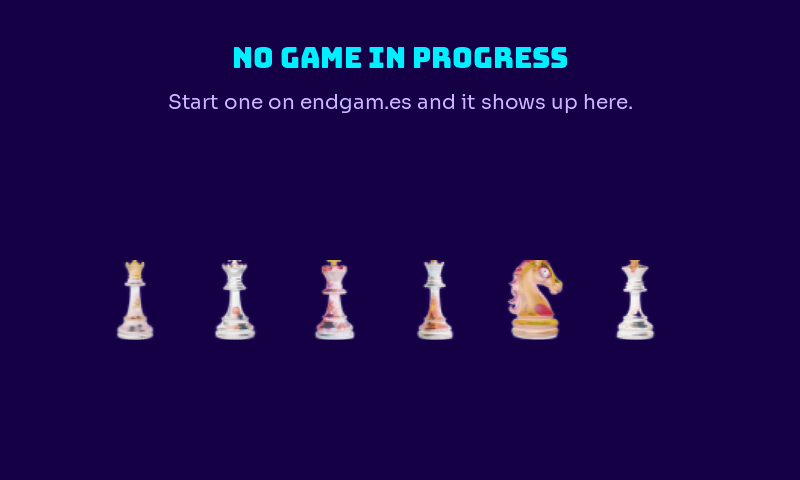
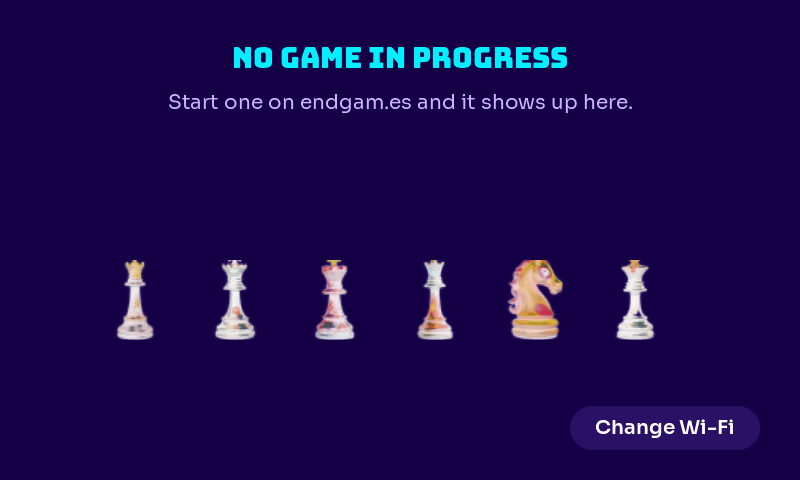
firmware 0.8.1: network dropdown, active-field highlight, Change Wi-Fi on pairing/idle, Back on Wi-Fi screen, idle after pairing

Changed region(s): [[0.6875, 0.8438, 0.9688, 0.9375]]

diff --git a/firmware/main/ui_screens.c b/firmware/main/ui_screens.c
@@ -163,29 +163,66 @@ static kbd_t *kbd_create(lv_obj_t *parent, void (*on_enter)(void *, lv_obj_t *),
 /* ---------- Wi-Fi ---------- */
 
 typedef struct {
-    lv_obj_t *ssid, *pass, *err, *list, *show_lbl;
+    lv_obj_t *dd, *name, *pass, *err, *show_lbl;
     kbd_t *k;
     eg_wifi_cb_t cb;
     void (*rescan)(void);
+    bool have_list;          /* dropdown holds real networks (not "Searching...") */
 } wifi_t;
 
-static void focus_cb(lv_event_t *e)
+#define OTHER_NET "Other network..."
+
+/* The field you're typing in gets a thick pink border and the blinking cursor; the other goes quiet. */
+static void set_target(wifi_t *w, lv_obj_t *ta)
 {
-    wifi_t *w = lv_event_get_user_data(e);
-    lv_keyboard_set_textarea(w->k->kb, lv_event_get_target(e));
+    lv_obj_t *fields[] = {w->name, w->pass};
+    for (int i = 0; i < 2; i++) {
+        bool on = fields[i] == ta;
+        lv_obj_set_style_border_color(fields[i], on ? EG_PINK : EG_FG_MIST, 0);
+        lv_obj_set_style_border_width(fields[i], on ? 4 : 2, 0);
+        lv_obj_set_style_bg_color(fields[i], on ? lv_color_hex(0x3A1A85) : EG_SURFACE, 0);
+        if (on) lv_obj_add_state(fields[i], LV_STATE_FOCUSED);
+        else lv_obj_remove_state(fields[i], LV_STATE_FOCUSED);
+    }
+    lv_keyboard_set_textarea(w->k->kb, ta);
+}
+
+static void field_click_cb(lv_event_t *e)
+{
+    set_target(lv_event_get_user_data(e), lv_event_get_target(e));
+}
+
+static bool other_selected(wifi_t *w)
+{
+    char buf[40];
+    lv_dropdown_get_selected_str(w->dd, buf, sizeof buf);
+    return strcmp(buf, OTHER_NET) == 0;
+}
+
+static void current_ssid(wifi_t *w, char out[33])
+{
+    out[0] = 0;
+    if (other_selected(w)) {
+        strncpy(out, lv_textarea_get_text(w->name), 32);
+    } else if (w->have_list) {
+        lv_dropdown_get_selected_str(w->dd, out, 33);
+    }
+    out[32] = 0;
 }
 
 static void do_connect(wifi_t *w)
 {
-    if (!lv_textarea_get_text(w->ssid)[0]) { lv_label_set_text(w->err, "Pick a network first."); return; }
+    char ssid[33];
+    current_ssid(w, ssid);
+    if (!ssid[0]) { lv_label_set_text(w->err, other_selected(w) ? "Type the network name." : "Pick a network first."); return; }
     lv_label_set_text(w->err, "Connecting...");
-    if (w->cb) w->cb(lv_textarea_get_text(w->ssid), lv_textarea_get_text(w->pass));
+    if (w->cb) w->cb(ssid, lv_textarea_get_text(w->pass));
 }
 
 static void enter_cb(void *ctx, lv_obj_t *ta)
 {
     wifi_t *w = ctx;
-    if (ta == w->ssid) lv_keyboard_set_textarea(w->k->kb, w->pass);
+    if (ta == w->name) set_target(w, w->pass);
     else do_connect(w);
 }
 
@@ -197,10 +234,7 @@ static void show_cb(lv_event_t *e)
     lv_label_set_text(w->show_lbl, hidden ? "Hide" : "Show");
 }
 
-static void connect_cb(lv_event_t *e)
-{
-    do_connect(lv_event_get_user_data(e));
-}
+static void connect_cb(lv_event_t *e) { do_connect(lv_event_get_user_data(e)); }
 
 static void rescan_cb(lv_event_t *e)
 {
@@ -208,35 +242,36 @@ static void rescan_cb(lv_event_t *e)
     if (w->rescan) w->rescan();
 }
 
-static void pick_cb(lv_event_t *e)
+static void dd_changed_cb(lv_event_t *e)
 {
     wifi_t *w = lv_event_get_user_data(e);
-    lv_obj_t *btn = lv_event_get_target(e);
-    lv_obj_t *lbl = lv_obj_get_child(btn, 0);
-    lv_textarea_set_text(w->ssid, lv_label_get_text(lbl));
-    lv_textarea_set_text(w->pass, "");
     lv_label_set_text(w->err, "");
-    uint32_t n = lv_obj_get_child_count(w->list);
-    for (uint32_t i = 0; i < n; i++) lv_obj_remove_state(lv_obj_get_child(w->list, i), LV_STATE_CHECKED);
-    lv_obj_add_state(btn, LV_STATE_CHECKED);
-    lv_keyboard_set_textarea(w->k->kb, w->pass);              /* keyboard jumps to the password */
+    if (other_selected(w)) {
+        lv_obj_remove_flag(w->name, LV_OBJ_FLAG_HIDDEN);
+        set_target(w, w->name);
+    } else {
+        lv_obj_add_flag(w->name, LV_OBJ_FLAG_HIDDEN);
+        lv_textarea_set_text(w->pass, "");
+        set_target(w, w->pass);
+    }
 }
 
-static lv_obj_t *field(lv_obj_t *p, const char *placeholder, int y, bool pw, wifi_t *w)
+static lv_obj_t *field(lv_obj_t *p, const char *placeholder, int x, int y, int wdt, bool pw, wifi_t *w)
 {
     lv_obj_t *t = lv_textarea_create(p);
     lv_textarea_set_one_line(t, true);
     lv_textarea_set_placeholder_text(t, placeholder);
     lv_textarea_set_password_mode(t, pw);
-    lv_obj_set_size(t, 360, 52);
-    lv_obj_set_pos(t, 40, y);
+    lv_obj_set_size(t, wdt, 52);
+    lv_obj_set_pos(t, x, y);
     lv_obj_set_style_bg_color(t, EG_SURFACE, 0);
     lv_obj_set_style_text_color(t, EG_FG, 0);
     lv_obj_set_style_text_font(t, &eg_sora_20, 0);
-    lv_obj_set_style_border_color(t, EG_CYAN, 0);
+    lv_obj_set_style_border_color(t, EG_FG_MIST, 0);
     lv_obj_set_style_border_width(t, 2, 0);
-    lv_obj_add_event_cb(t, focus_cb, LV_EVENT_FOCUSED, w);
-    lv_obj_add_event_cb(t, focus_cb, LV_EVENT_CLICKED, w);
+    lv_obj_set_style_border_color(t, EG_PINK, LV_PART_CURSOR | LV_STATE_FOCUSED);
+    lv_obj_set_style_bg_color(t, EG_PINK, LV_PART_CURSOR | LV_STATE_FOCUSED);
+    lv_obj_add_event_cb(t, field_click_cb, LV_EVENT_CLICKED, w);
     return t;
 }
 
@@ -247,15 +282,10 @@ static lv_obj_t *pill(lv_obj_t *p, const char *text, lv_color_t bg, int x, int y
     lv_obj_set_pos(b, x, y);
     lv_obj_set_style_bg_color(b, bg, 0);
     lv_obj_set_style_radius(b, LV_RADIUS_CIRCLE, 0);
-    lv_obj_center(label(b, &eg_sora_20_bold, lv_color_white(), text));
+    lv_obj_set_style_shadow_width(b, 0, 0);
+    lv_obj_t *l = label(b, &eg_sora_20_bold, lv_color_white(), text);
+    lv_obj_center(l);
     return b;
-}
-
-static void list_message(wifi_t *w, const char *msg)
-{
-    lv_obj_clean(w->list);
-    lv_obj_t *l = label(w->list, &eg_sora_16, EG_FG_HAZE, msg);
-    lv_obj_set_style_pad_all(l, 12, 0);
 }
 
 lv_obj_t *eg_wifi_create(lv_obj_t *parent, eg_wifi_cb_t on_connect, void (*on_rescan)(void))
@@ -271,30 +301,43 @@ lv_obj_t *eg_wifi_create(lv_obj_t *parent, eg_wifi_cb_t on_connect, void (*on_re
     lv_obj_t *t = label(s, &eg_bungee_28, EG_CYAN, "CONNECT TO WI-FI");
     lv_obj_set_pos(t, 40, 20);
 
-    /* left: name, password, connect */
-    w->ssid = field(s, "Network name", 72, false, w);
-    w->pass = field(s, "Password", 134, true, w);
-    lv_obj_add_event_cb(pill(s, "Connect", EG_PINK, 40, 198, 180, 48), connect_cb, LV_EVENT_CLICKED, w);
-    w->err = label(s, &eg_sora_16, EG_MAGENTA, "");
-    lv_label_set_long_mode(w->err, LV_LABEL_LONG_WRAP);
-    lv_obj_set_width(w->err, 190);
-    lv_obj_set_pos(w->err, 232, 200);
+    /* network dropdown + rescan */
+    w->dd = lv_dropdown_create(s);
+    lv_obj_set_size(w->dd, 300, 52);
+    lv_obj_set_pos(w->dd, 40, 72);
+    lv_dropdown_set_options(w->dd, "Searching...");
+    lv_obj_set_style_bg_color(w->dd, EG_SURFACE, 0);
+    lv_obj_set_style_text_color(w->dd, EG_FG, 0);
+    lv_obj_set_style_text_font(w->dd, &eg_sora_20, 0);
+    lv_obj_set_style_text_font(w->dd, &lv_font_montserrat_20, LV_PART_INDICATOR);
+    lv_obj_set_style_border_color(w->dd, EG_CYAN, 0);
+    lv_obj_set_style_border_width(w->dd, 2, 0);
+    lv_obj_set_style_pad_ver(w->dd, 14, 0);
+    lv_obj_t *list = lv_dropdown_get_list(w->dd);
+    lv_obj_set_style_bg_color(list, EG_SURFACE, 0);
+    lv_obj_set_style_text_color(list, EG_FG, 0);
+    lv_obj_set_style_text_font(list, &eg_sora_20, 0);
+    lv_obj_set_style_border_color(list, EG_CYAN, 0);
+    lv_obj_set_style_border_width(list, 2, 0);
+    lv_obj_set_style_text_line_space(list, 22, 0);
+    lv_obj_set_style_max_height(list, 300, 0);
+    lv_obj_set_style_bg_color(list, EG_CYAN, LV_PART_SELECTED | LV_STATE_CHECKED);
+    lv_obj_set_style_text_color(list, EG_BG_VOID, LV_PART_SELECTED | LV_STATE_CHECKED);
+    lv_obj_add_event_cb(w->dd, dd_changed_cb, LV_EVENT_VALUE_CHANGED, w);
 
-    /* right: nearby networks */
-    w->list = lv_obj_create(s);
-    lv_obj_set_size(w->list, 320, 140);
-    lv_obj_set_pos(w->list, 440, 72);
-    lv_obj_set_flex_flow(w->list, LV_FLEX_FLOW_COLUMN);
-    lv_obj_set_style_bg_color(w->list, EG_SURFACE, 0);
-    lv_obj_set_style_border_color(w->list, EG_CYAN, 0);
-    lv_obj_set_style_border_width(w->list, 2, 0);
-    lv_obj_set_style_pad_all(w->list, 4, 0);
-    lv_obj_set_style_pad_row(w->list, 4, 0);
-    lv_obj_set_scroll_dir(w->list, LV_DIR_VER);
-    list_message(w, "Searching...");
-    lv_obj_add_event_cb(pill(s, "Scan again", EG_SURFACE, 440, 218, 180, 40), rescan_cb, LV_EVENT_CLICKED, w);
+    lv_obj_t *rb = pill(s, "", EG_SURFACE, 348, 72, 52, 52);
+    lv_obj_t *rl = lv_obj_get_child(rb, 0);
+    lv_obj_set_style_text_font(rl, &lv_font_montserrat_20, 0);
+    lv_label_set_text(rl, LV_SYMBOL_REFRESH);
+    lv_obj_add_event_cb(rb, rescan_cb, LV_EVENT_CLICKED, w);
 
-    /* Show / Hide inside the password field */
+    /* hidden-network name, only shown for "Other network..." */
+    w->name = field(s, "Network name", 440, 72, 320, false, w);
+    lv_obj_add_flag(w->name, LV_OBJ_FLAG_HIDDEN);
+
+    /* password with Show / Hide */
+    w->pass = field(s, "Password", 40, 134, 360, true, w);
+    lv_obj_set_style_pad_right(w->pass, 86, 0);
     lv_obj_t *sb = lv_button_create(s);
     lv_obj_set_size(sb, 76, 40);
     lv_obj_set_pos(sb, 40 + 360 - 76 - 6, 134 + 6);
@@ -304,10 +347,15 @@ lv_obj_t *eg_wifi_create(lv_obj_t *parent, eg_wifi_cb_t on_connect, void (*on_re
     w->show_lbl = label(sb, &eg_sora_16, EG_CYAN, "Show");
     lv_obj_center(w->show_lbl);
     lv_obj_add_event_cb(sb, show_cb, LV_EVENT_CLICKED, w);
-    lv_obj_set_style_pad_right(w->pass, 86, 0);       /* typed text never runs under the button */
+
+    lv_obj_add_event_cb(pill(s, "Connect", EG_PINK, 40, 198, 180, 48), connect_cb, LV_EVENT_CLICKED, w);
+    w->err = label(s, &eg_sora_16, EG_MAGENTA, "");
+    lv_label_set_long_mode(w->err, LV_LABEL_LONG_WRAP);
+    lv_obj_set_width(w->err, 520);
+    lv_obj_set_pos(w->err, 236, 212);
 
     w->k = kbd_create(s, enter_cb, w);
-    lv_keyboard_set_textarea(w->k->kb, w->pass);
+    set_target(w, w->pass);
     return s;
 }
 
@@ -319,44 +367,32 @@ void eg_wifi_set_error(lv_obj_t *screen, const char *msg)
 
 void eg_wifi_set_scanning(lv_obj_t *screen)
 {
-    list_message(lv_obj_get_user_data(screen), "Searching...");
+    wifi_t *w = lv_obj_get_user_data(screen);
+    if (w->have_list) return;               /* keep the current list and selection while rescanning */
+    lv_dropdown_set_options(w->dd, "Searching...");
 }
 
 void eg_wifi_set_networks(lv_obj_t *screen, const eg_ap_t *aps, int n)
 {
     wifi_t *w = lv_obj_get_user_data(screen);
-    if (n == 0) { list_message(w, "No networks found."); return; }
-    lv_obj_clean(w->list);
-    const char *current = lv_textarea_get_text(w->ssid);
+    char keep[33] = {0};
+    if (w->have_list && !other_selected(w)) lv_dropdown_get_selected_str(w->dd, keep, sizeof keep);
+    bool was_other = w->have_list && other_selected(w);
+
+    lv_dropdown_clear_options(w->dd);
+    int sel = 0;
     for (int i = 0; i < n; i++) {
-        lv_obj_t *b = lv_button_create(w->list);
-        lv_obj_set_width(b, LV_PCT(100));
-        lv_obj_set_height(b, 40);
-        lv_obj_set_style_radius(b, 6, 0);
-        lv_obj_set_style_shadow_width(b, 0, 0);
-        lv_obj_set_style_bg_color(b, EG_BG_STAGE, 0);
-        lv_obj_set_style_bg_color(b, EG_CYAN, LV_STATE_CHECKED);
-        lv_obj_set_style_text_color(b, EG_FG, 0);
-        lv_obj_set_style_text_color(b, EG_BG_VOID, LV_STATE_CHECKED);
-        lv_obj_t *l = label(b, &eg_sora_20, EG_FG, aps[i].ssid);
-        lv_obj_set_style_text_color(l, EG_FG, 0);
-        lv_label_set_long_mode(l, LV_LABEL_LONG_DOT);
-        lv_obj_set_width(l, 220);
-        lv_obj_align(l, LV_ALIGN_LEFT_MID, 4, 0);
-        /* signal: 4 bars, filled by strength */
-        int bars = aps[i].rssi > -55 ? 4 : aps[i].rssi > -65 ? 3 : aps[i].rssi > -75 ? 2 : 1;
-        for (int k = 0; k < 4; k++) {
-            lv_obj_t *bar = lv_obj_create(b);
-            lv_obj_remove_flag(bar, LV_OBJ_FLAG_CLICKABLE);
-            lv_obj_set_size(bar, 5, 6 + k * 4);
-            lv_obj_set_style_border_width(bar, 0, 0);
-            lv_obj_set_style_radius(bar, 1, 0);
-            lv_obj_set_style_bg_color(bar, k < bars ? EG_CYAN : EG_FG_MIST, 0);
-            lv_obj_set_style_bg_opa(bar, k < bars ? LV_OPA_COVER : LV_OPA_30, 0);
-            lv_obj_align(bar, LV_ALIGN_BOTTOM_RIGHT, -4 - (3 - k) * 8, -8);
-        }
-        if (current[0] && strcmp(current, aps[i].ssid) == 0) lv_obj_add_state(b, LV_STATE_CHECKED);
-        lv_obj_add_event_cb(b, pick_cb, LV_EVENT_CLICKED, w);
+        lv_dropdown_add_option(w->dd, aps[i].ssid, LV_DROPDOWN_POS_LAST);
+        if (keep[0] && strcmp(keep, aps[i].ssid) == 0) sel = i;
+    }
+    lv_dropdown_add_option(w->dd, OTHER_NET, LV_DROPDOWN_POS_LAST);
+    w->have_list = true;
+    lv_dropdown_set_selected(w->dd, was_other || n == 0 ? n : sel);
+    if (n == 0 && !was_other) {
+        lv_label_set_text(w->err, "No networks found. Tap refresh or pick Other network.");
+    }
+    if (lv_dropdown_get_selected(w->dd) == (uint32_t)n) {
+        lv_obj_remove_flag(w->name, LV_OBJ_FLAG_HIDDEN);
     }
 }
 

diff --git a/firmware/tools/preview/preview.c b/firmware/tools/preview/preview.c
@@ -75,8 +75,9 @@ int main(int argc, char **argv)
         eg_pair_set_code(p, "K7XQ2M", "endgam.es/board/pair");
     } else if (strcmp(which, "wifi") == 0) {
         lv_obj_t *w = eg_wifi_create(lv_screen_active(), NULL, NULL);
-        eg_ap_t aps[] = {{"Renas Wifi", -48, false}, {"NETGEAR-5G", -61, false}, {"xfinitywifi", -70, true}, {"Coffee Shop Guest Network Long Name", -82, false}};
+        eg_ap_t aps[] = {{"Renas Wifi", -48, false}, {"NETGEAR-5G", -61, false}, {"xfinitywifi", -70, true}, {"Coffee Shop Guest Wifi", -82, false}};
         eg_wifi_set_networks(w, aps, 4);
+        if (argc > 3) lv_dropdown_open(lv_obj_get_child(w, 1));
     } else if (strcmp(which, "idle") == 0) {
         eg_idle_create(lv_screen_active());
     } else {
